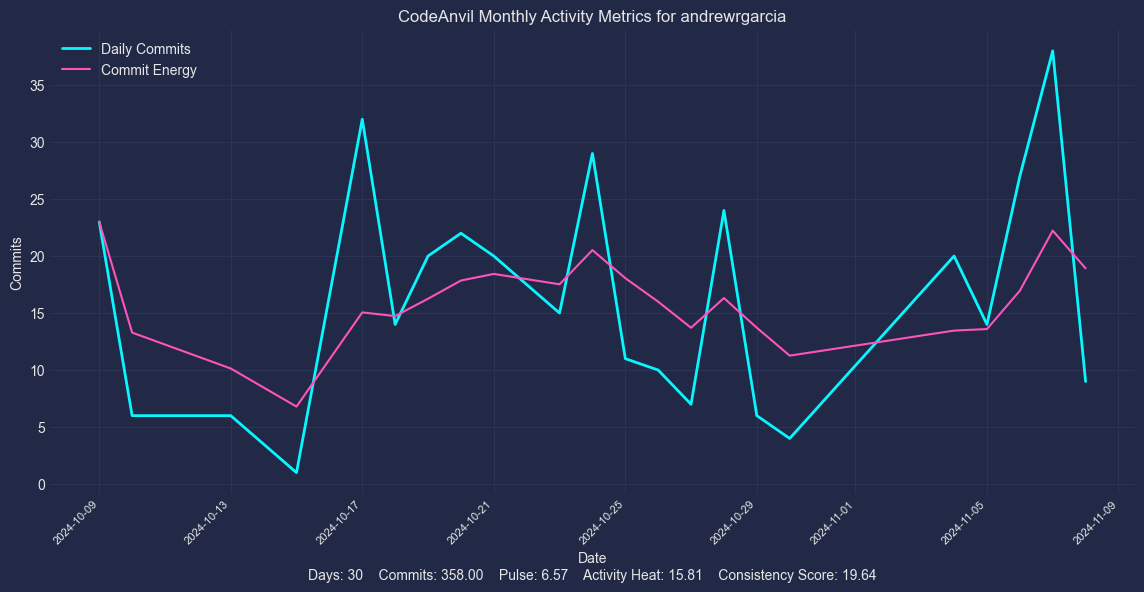
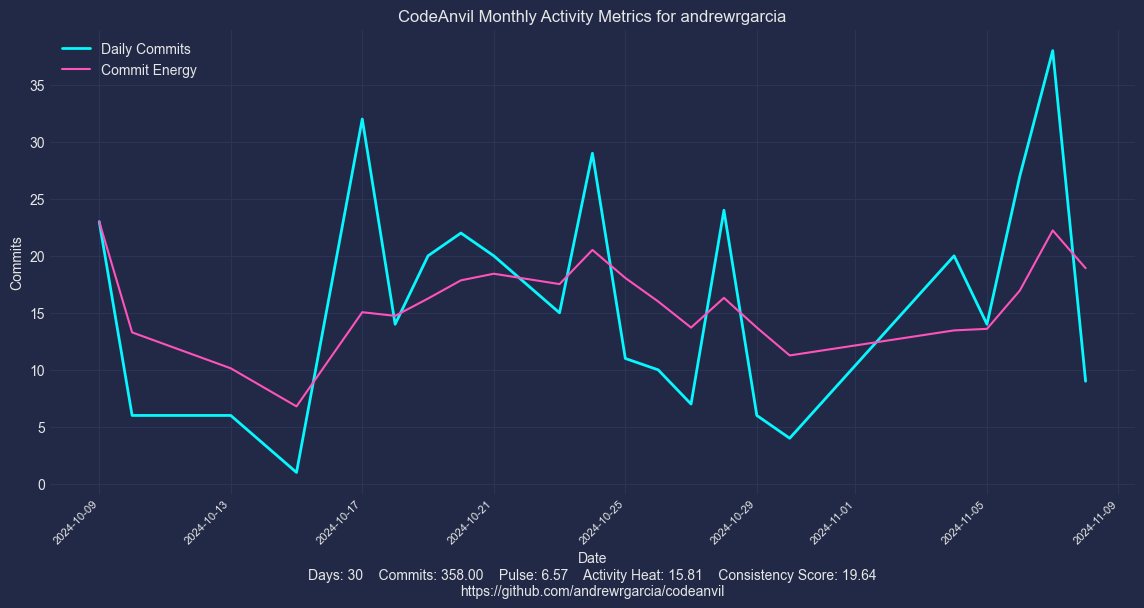
reference

diff --git a/codeanvil/src.py b/codeanvil/src.py
@@ -77,7 +77,7 @@ def plot_metrics(metrics, title="Activity Metrics", figsize=(14, 8), show_plot=T
     )
     
     plt.title(f"CodeAnvil {title}")
-    plt.xlabel(f"Date\n{summary_text}", fontsize=10)
+    plt.xlabel(f"Date\n{summary_text}\nhttps://github.com/andrewrgarcia/codeanvil", fontsize=10)
     plt.ylabel("Commits")
     plt.legend()
     plt.xticks(rotation=45, ha='right', fontsize=8)
